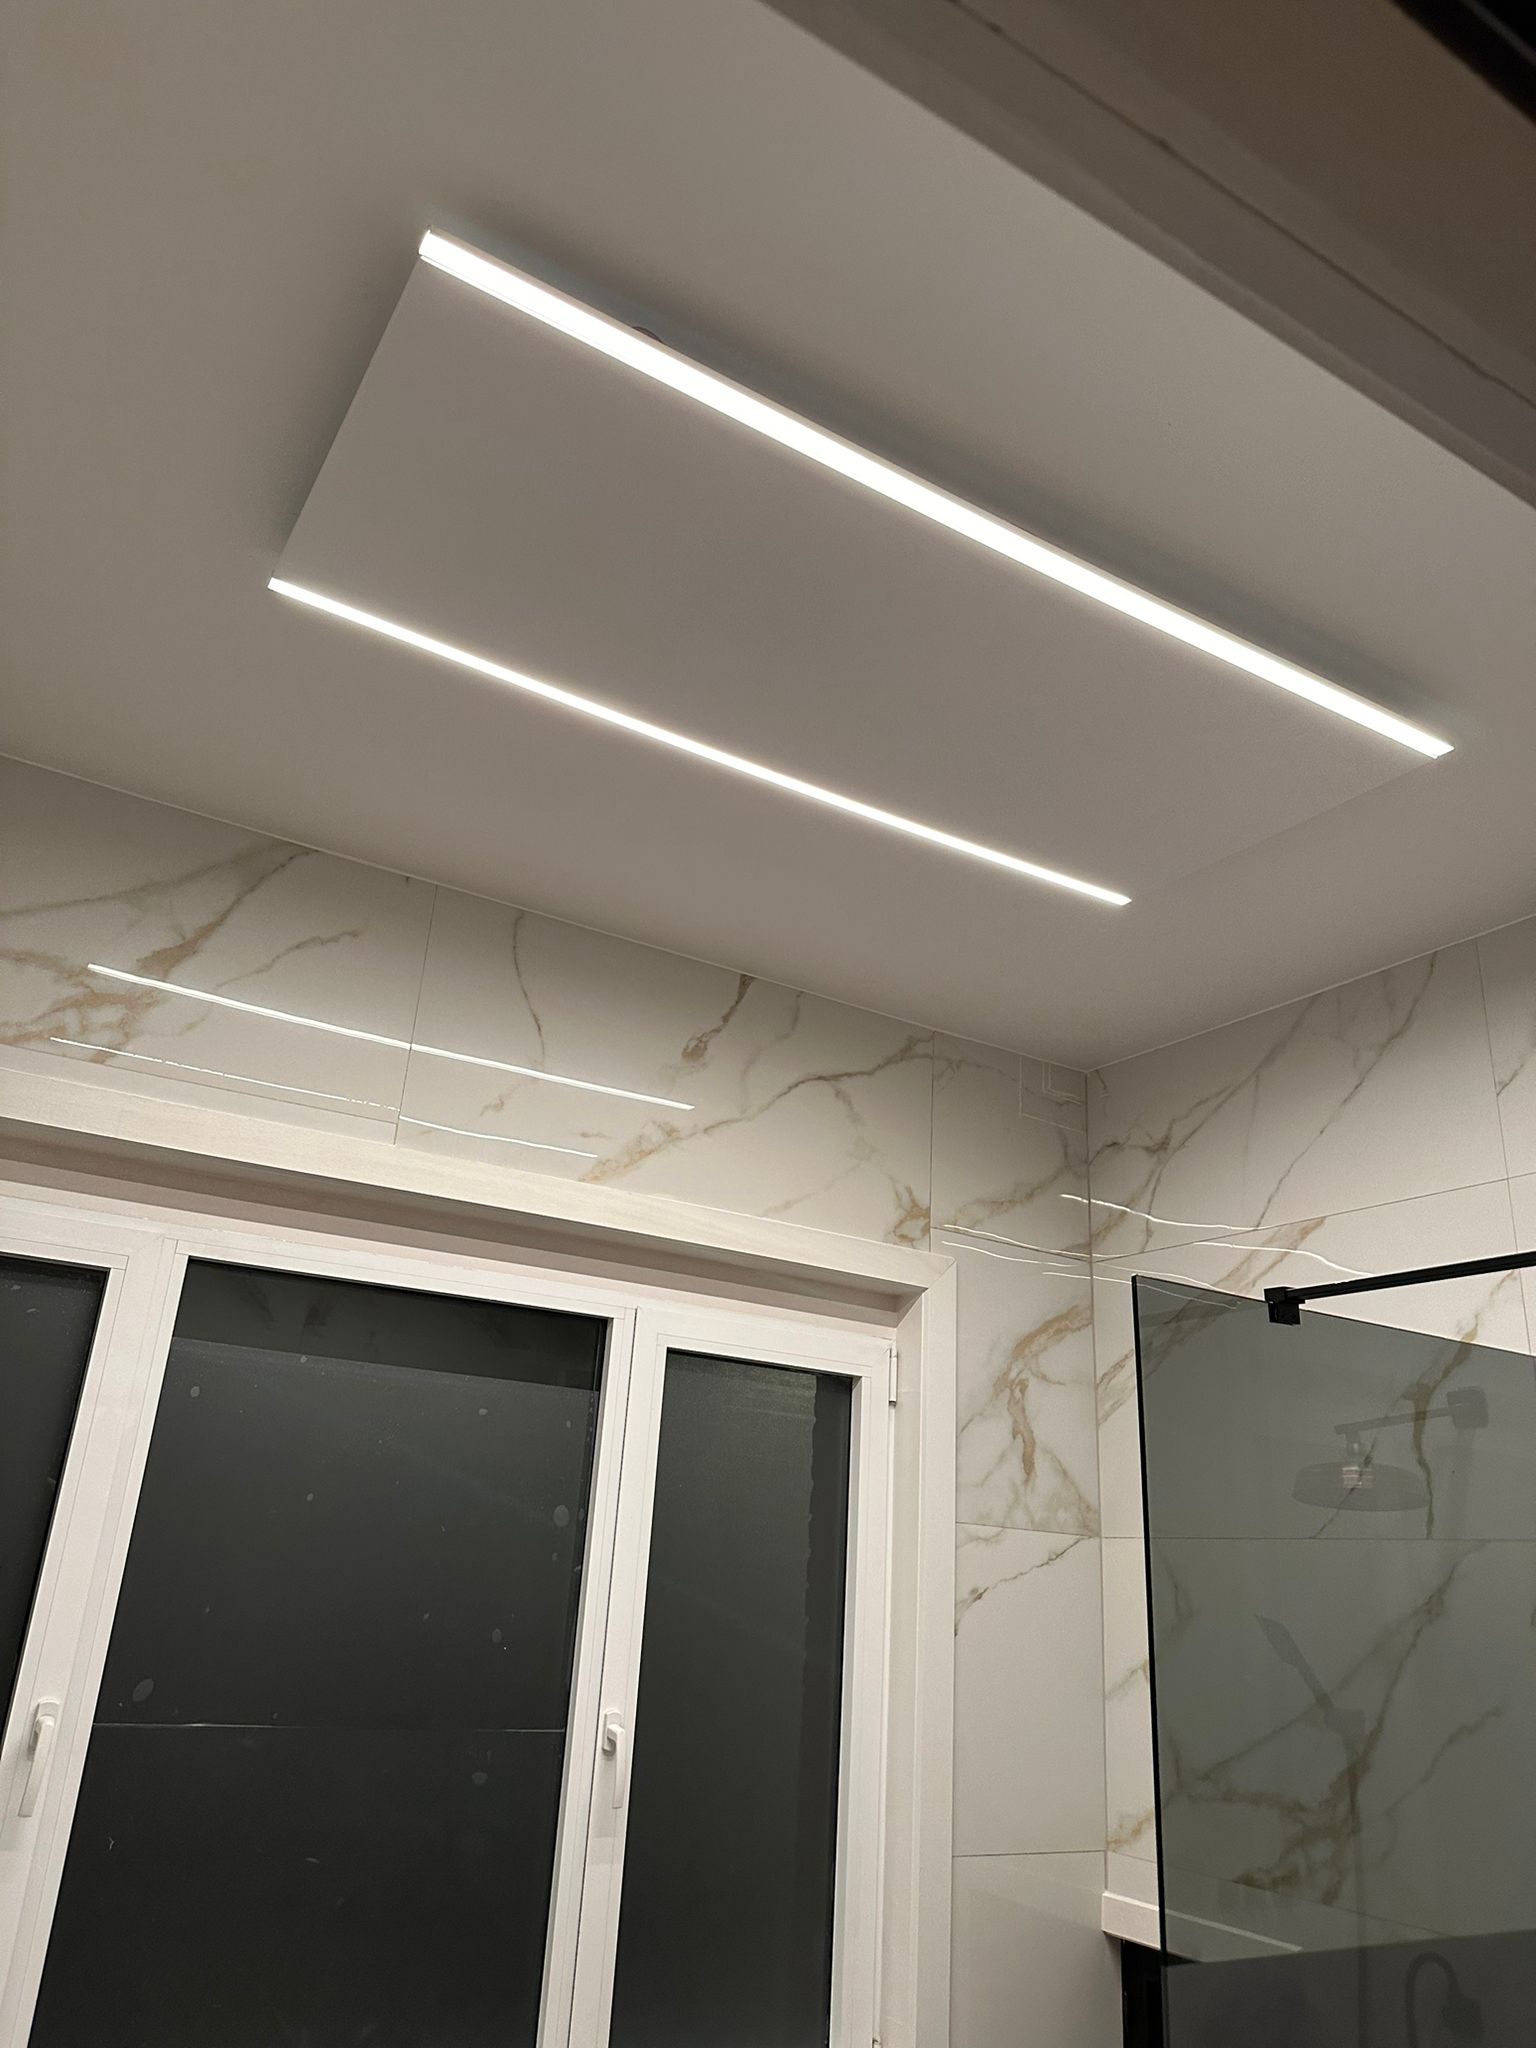
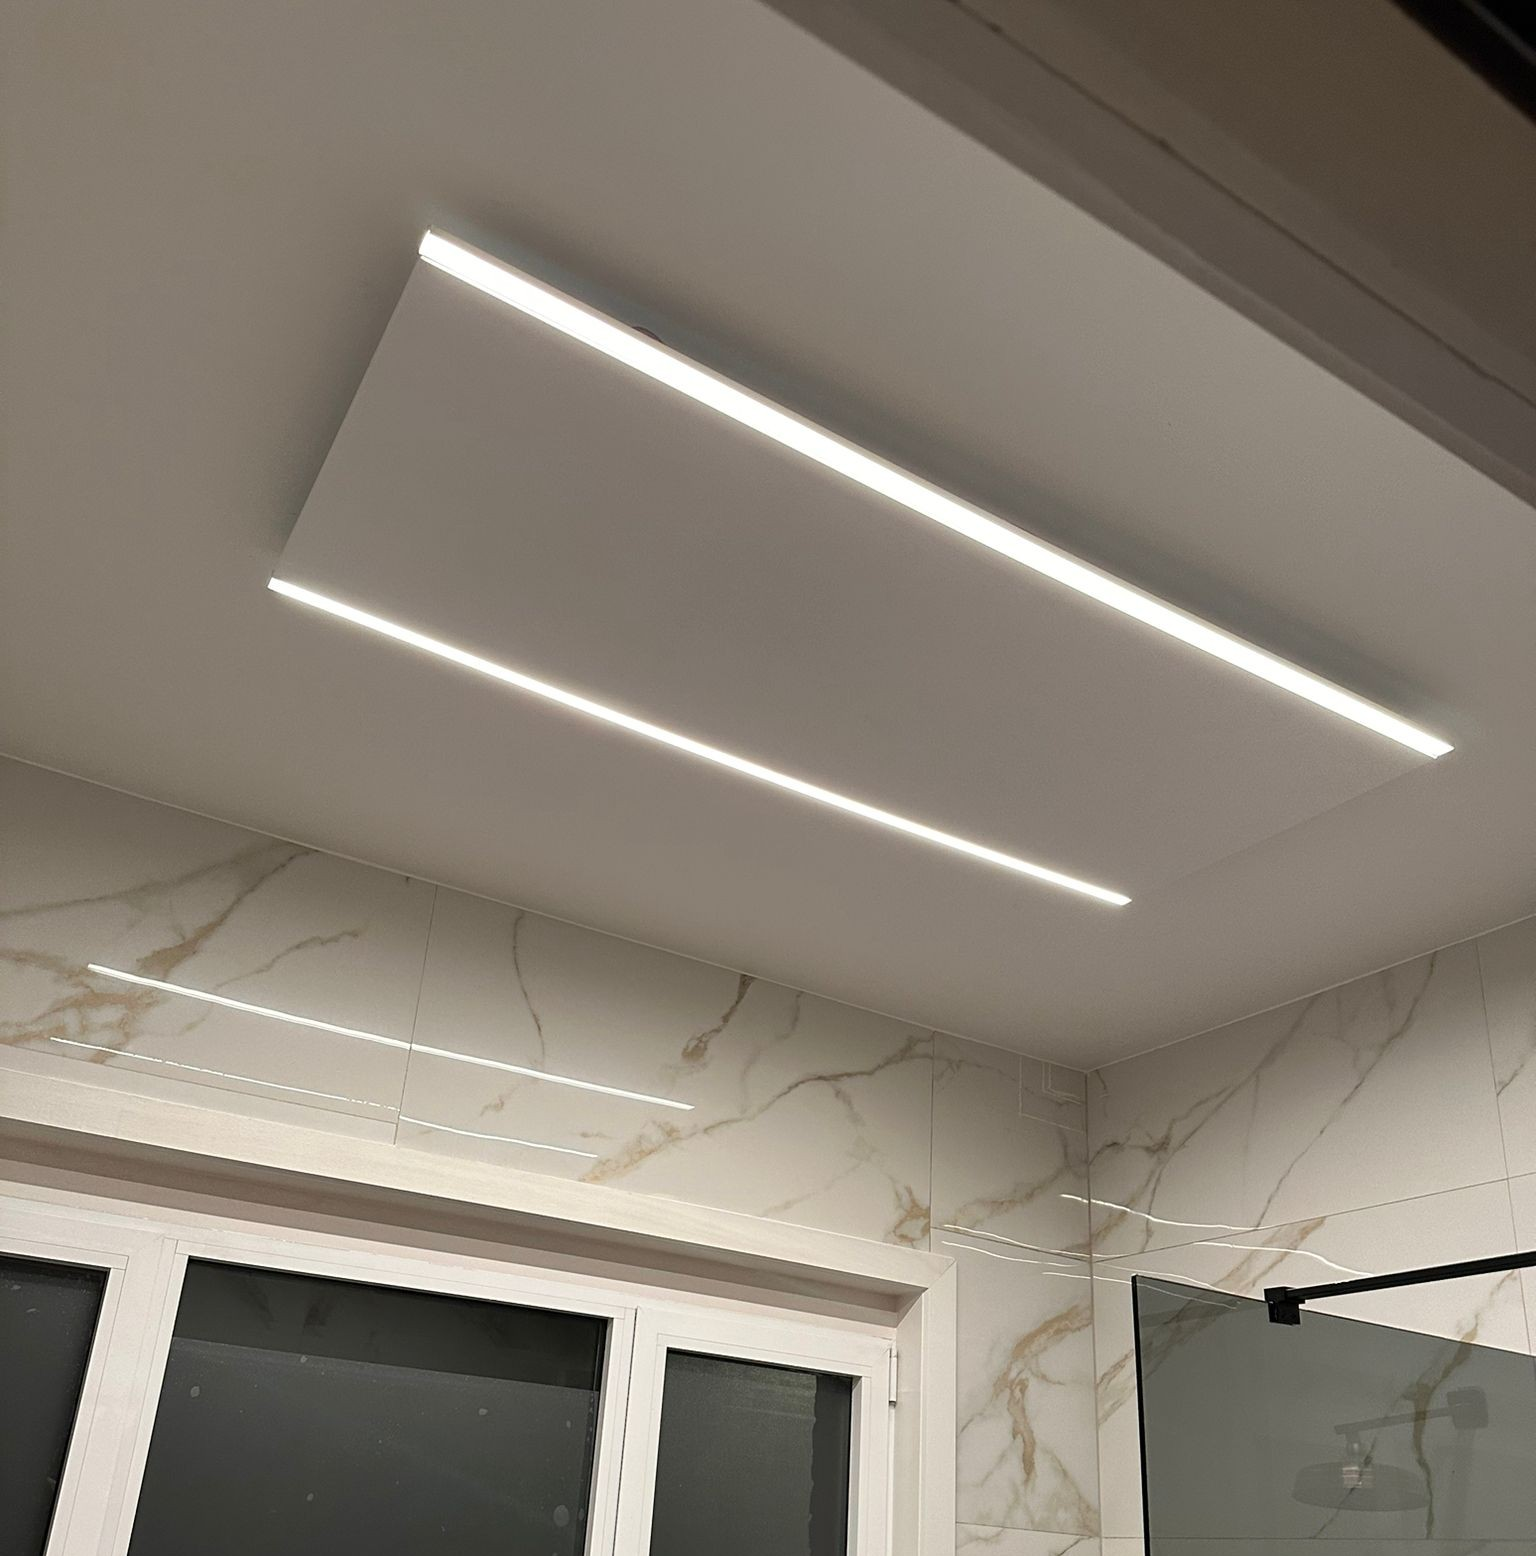
update

diff --git a/projecten.html b/projecten.html
@@ -7,6 +7,7 @@
     <link rel="stylesheet" href="./style/main.css" />
     <link rel="stylesheet" href="./style/animaties.css" />
     <link rel="stylesheet" href="./style/projecten.css" />
+    <link rel="icon" type="image/x-icon" href="/assets/favicon.svg" />
   </head>
   <body>
     <header class="header">
@@ -50,7 +51,7 @@
           Batterijen
         </button>
         <button class="filter-btn" onclick="filterProjects(event, 'sanitary')">
-          Sanitair
+          Klimaat & Sanitair
         </button>
         <button class="filter-btn" onclick="filterProjects(event, 'roof')">
           Dak
@@ -58,9 +59,9 @@
         <button class="filter-btn" onclick="filterProjects(event, 'charger')">
           Laadpalen
         </button>
-        <button class="filter-btn" onclick="filterProjects(event, 'pump')">
+        <!-- <button class="filter-btn" onclick="filterProjects(event, 'pump')">
           Warmtepomp
-        </button>
+        </button> -->
       </div>
     </section>
 

diff --git a/diensten.html b/diensten.html
@@ -7,6 +7,7 @@
     <link rel="stylesheet" href="./style/main.css" />
     <link rel="stylesheet" href="./style/animaties.css" />
     <link rel="stylesheet" href="./style/diensten.css" />
+    <link rel="icon" type="image/x-icon" href="/assets/favicon.svg" />
   </head>
   <body>
     <header class="header">

diff --git a/overons.html b/overons.html
@@ -7,6 +7,7 @@
     <link rel="stylesheet" href="./style/main.css" />
     <link rel="stylesheet" href="./style/animaties.css" />
     <link rel="stylesheet" href="./style/overons.css" />
+    <link rel="icon" type="image/x-icon" href="/assets/favicon.svg" />
   </head>
   <body>
     <header class="header">

diff --git a/index.html b/index.html
@@ -6,6 +6,7 @@
     <title>BDR Energie</title>
     <link rel="stylesheet" href="./style/main.css" />
     <link rel="stylesheet" href="./style/animaties.css" />
+    <link rel="icon" type="image/x-icon" href="/assets/favicon.svg" />
   </head>
   <body>
     <header class="header">

diff --git a/contact.html b/contact.html
@@ -7,6 +7,7 @@
     <link rel="stylesheet" href="./style/main.css" />
     <link rel="stylesheet" href="./style/animaties.css" />
     <link rel="stylesheet" href="./style/contact.css" />
+    <link rel="icon" type="image/x-icon" href="/assets/favicon.svg" />
   </head>
 
   <body>
